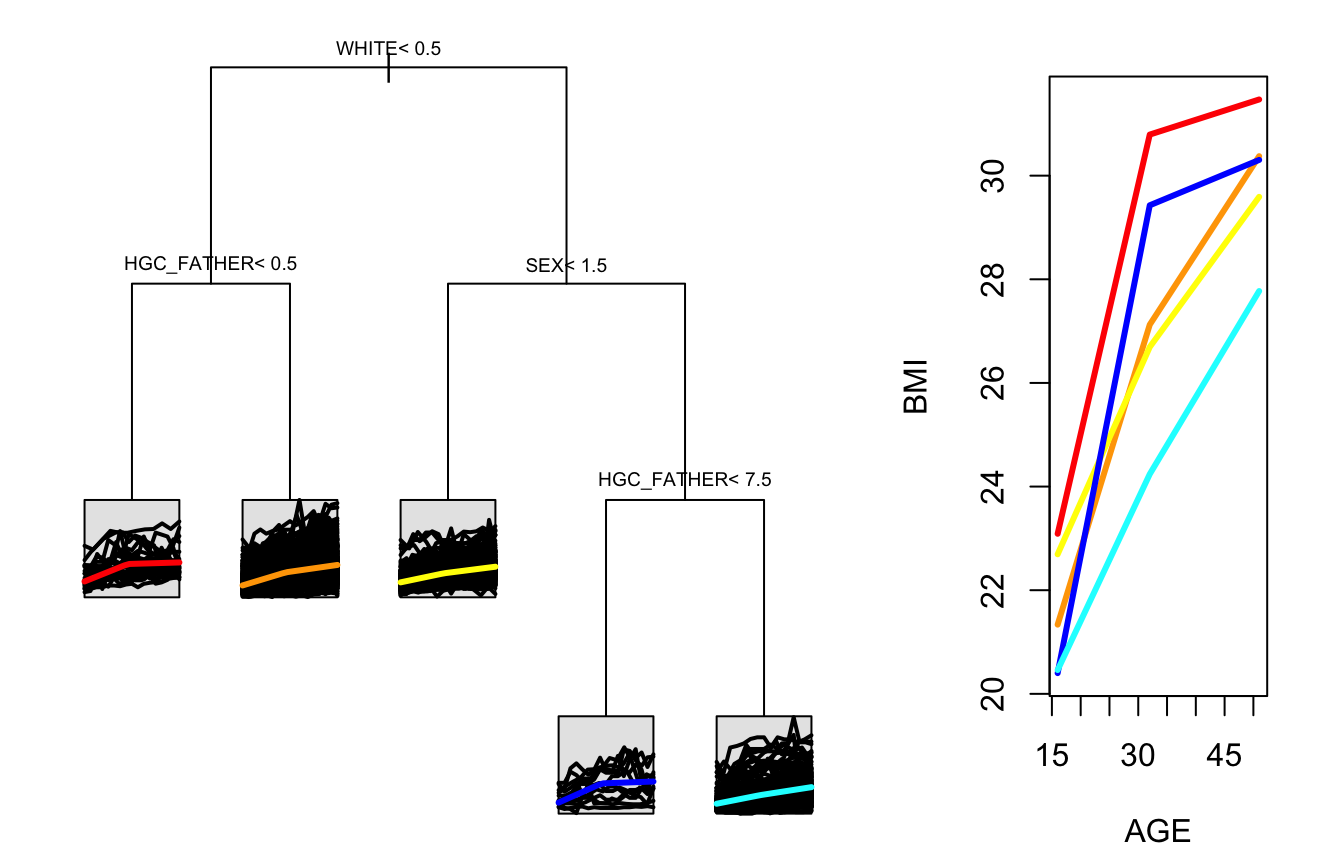
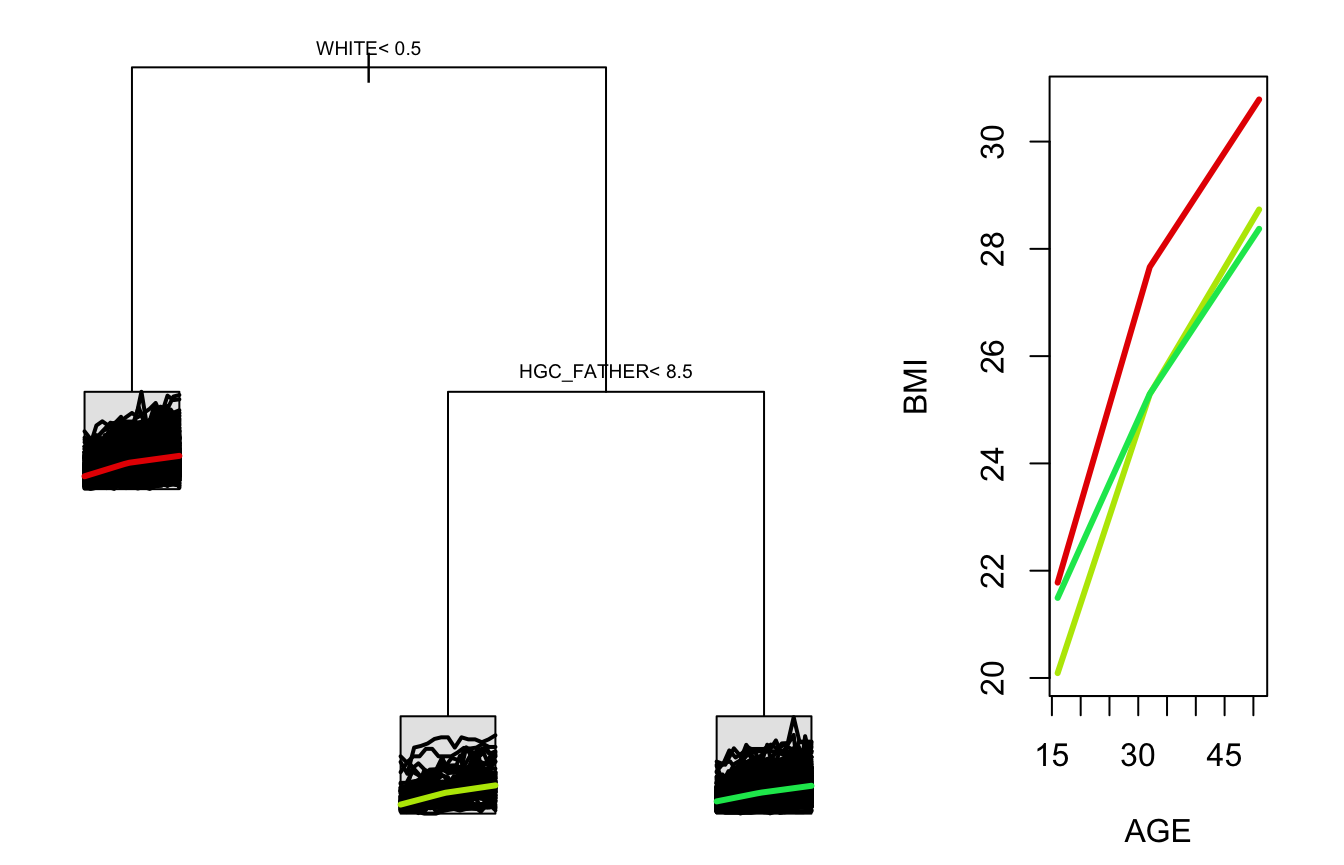
Built Site Files

diff --git a/docs/articles/Long-Intro.html b/docs/articles/Long-Intro.html
@@ -131,6 +131,18 @@
 <p>In this section, we will show how to use <code><a href="../reference/splineTree.html">splineTree()</a></code> to build a tree. More details on customizing, visualizing, and evaluating <code>splinetree</code> objects can be found in the vignette <em>Tree Building with splinetree</em>.</p>
 <p>This example uses data taken from the National Longitudinal Survey of Youth, 1979 (NLSY). The longitudinal trajectory of interest is body mass index (BMI) over time. We randomly sample 1,000 individuals from the NLSY out of those who have non-missing BMI data at at least 10 timepoints spread out over at least 20 years. We are interested in the relationship between BMI trajectories and time-constant variables such as HISP, WHITE, BLACK (indicator variables for subject’s reported race), SEX (indicator for subject’s reported sex), Num_sibs (number of siblings), and HGC_FATHER and HGC_MOTHER (reported highest grade completed by subject’s father and subject’s mother).</p>
 <p>Previous research by <span class="citation">Clarke et al. (2008)</span> suggests that adult BMIs tend to increase steadily throughout early adulthood and flatten out in later adulthood. This type of trajectory can be modeled with a piecewise linear trajectory, so we will define our spline basis with <code>degree = 1</code> and one internal knot. Since we do not have a particular location in mind for the internal knot, we use the <code>df</code> parameter rather than the <code>knots</code> parameter. This will place the knot at the median age. If we include an intercept, we will need to let <code>df = 3</code> to add one internal knot, but if we do not include an intercept <code>df = 2</code> will suffice. In this example, we build one tree with an intercept and one tree without an intercept so as to compare the two. The default value in the <code>rpart</code> package for the <code>cp</code> parameter, which controls the size of the tree, is 0.01. Here, we set the value of <code>cp</code> slightly lower to create trees that are large enough to be interesting but small enough to view in a plot.</p>
+<div class="sourceCode"><pre class="sourceCode r"><code class="sourceCode r"><span class="kw">library</span>(splinetree)
+## Loading required package: rpart
+## Loading required package: nlme
+## Loading required package: splines</code></pre></div>
+<div class="sourceCode"><pre class="sourceCode r"><code class="sourceCode r">split_formula &lt;-<span class="st"> </span><span class="er">~</span>HISP +<span class="st"> </span>WHITE +<span class="st"> </span>BLACK +<span class="st"> </span>SEX +<span class="st"> </span>Num_sibs +<span class="st"> </span>HGC_FATHER +<span class="st"> </span>HGC_MOTHER
+tformula &lt;-<span class="st"> </span>BMI ~<span class="st"> </span>AGE
+sample_tree &lt;-<span class="st"> </span><span class="kw"><a href="../reference/splineTree.html">splineTree</a></span>(split_formula, tformula, <span class="dt">idvar =</span> <span class="st">"ID"</span>, 
+                          <span class="dt">data =</span> nlsySample, <span class="dt">degree =</span> <span class="dv">1</span>, <span class="dt">df =</span> <span class="dv">2</span>, 
+                          <span class="dt">intercept =</span> <span class="ot">FALSE</span>, <span class="dt">cp =</span> <span class="fl">0.005</span>)
+sample_tree_intercept &lt;-<span class="st"> </span><span class="kw"><a href="../reference/splineTree.html">splineTree</a></span>(split_formula, tformula, <span class="dt">idvar =</span> <span class="st">"ID"</span>, 
+                                    <span class="dt">data =</span> nlsySample, <span class="dt">degree =</span> <span class="dv">1</span>, <span class="dt">df =</span> <span class="dv">3</span>, 
+                                    <span class="dt">intercept =</span> <span class="ot">TRUE</span>, <span class="dt">cp =</span> <span class="fl">0.005</span>)</code></pre></div>
 <p>After building these two trees, we can view a printed summary or a plot of each. Beginning with the no-intercept tree, we see that non-white individuals are predicted to have more rapid growth in body mass index than white individuals. Among white individuals, those whose fathers did not complete more than 8.5 years of schooling show more rapid BMI growth. Since this tree was built without an intercept, the average starting BMI is added to each average trajectory in the plot.</p>
 <div class="sourceCode"><pre class="sourceCode r"><code class="sourceCode r"><span class="kw"><a href="../reference/stPrint.html">stPrint</a></span>(sample_tree)
 ## n= 1000,  
@@ -144,7 +156,7 @@
 ##     6) HGC_FATHER&lt; 8.5, 78,  (5.198284, 8.642817)*
 ##     7) HGC_FATHER&gt;=8.5, 417,  (3.802188, 6.880053)*
 <span class="kw"><a href="../reference/stPlot.html">stPlot</a></span>(sample_tree)</code></pre></div>
-<p><img src="Long-Intro_files/figure-html/unnamed-chunk-2-1.png" width="672"></p>
+<p><img src="Long-Intro_files/figure-html/unnamed-chunk-3-1.png" width="672"></p>
 <p>In the tree that is built with an intercept, each node is associated with three coefficients instead of two. While we see two of the same variables that were in the no-intercept tree included here, we now also see sex playing a role. This suggests that sex may impact the level of BMI but not the shape of the trajectory.</p>
 <div class="sourceCode"><pre class="sourceCode r"><code class="sourceCode r"><span class="kw"><a href="../reference/stPrint.html">stPrint</a></span>(sample_tree_intercept)
 ## n= 1000,  
@@ -162,7 +174,7 @@
 ##       14) HGC_FATHER&lt; 7.5, 12,  (20.40041, 9.027571, 9.903029)*
 ##       15) HGC_FATHER&gt;=7.5, 224,  (20.46025, 3.780243, 7.312451)*
 <span class="kw"><a href="../reference/stPlot.html">stPlot</a></span>(sample_tree_intercept, <span class="dt">colors=</span><span class="kw">c</span>(<span class="st">"red"</span>, <span class="st">"orange"</span>, <span class="st">"yellow"</span>, <span class="st">"blue"</span>, <span class="st">"cyan"</span>))</code></pre></div>
-<p><img src="Long-Intro_files/figure-html/unnamed-chunk-3-1.png" width="672"></p>
+<p><img src="Long-Intro_files/figure-html/unnamed-chunk-4-1.png" width="672"></p>
 </div>
 <div id="forests" class="section level1">
 <h1 class="hasAnchor">
@@ -173,7 +185,7 @@
 vars =<span class="st"> </span><span class="kw">attr</span>(<span class="kw">terms</span>(split_formula), <span class="st">"term.labels"</span>)
 imp_large=extra_large_tree$variable.importance
 imp_small=sample_tree_intercept$variable.importance</code></pre></div>
-<p><img src="Long-Intro_files/figure-html/unnamed-chunk-6-1.png" width="672"></p>
+<p><img src="Long-Intro_files/figure-html/unnamed-chunk-7-1.png" width="672"></p>
 <p>In the univariate setting, Random Forests and the associated permutation importance measure are popular ways to obtain more stable measures of variable importance (see <span class="citation">Breiman (2001)</span> or <span class="citation">Liaw and Wiener (2002)</span> for more). Through bootrapping and random variable selection, Random Forests give variables that are not locally optimal in a single tree a chance to appear in a tree. The <code><a href="../reference/splineForest.html">splineForest()</a></code> method allows users to build ensembles of spline trees, combining the projection splitting framework of <code><a href="../reference/splineTree.html">splineTree()</a></code> with the bagging and random variable selection principles of a Random Forest.</p>
 <div id="spline-forest-implementation" class="section level2">
 <h2 class="hasAnchor">
@@ -244,7 +256,7 @@ shape_imps &lt;-<span class="st"> </span><span class="kw"><a href="../reference/
 <span class="kw"><a href="../reference/plotImp.html">plotImp</a></span>(Y_imps[,<span class="dv">3</span>], <span class="dt">main =</span> <span class="st">"Response"</span>)
 <span class="kw"><a href="../reference/plotImp.html">plotImp</a></span>(coeff_imps[,<span class="dv">3</span>], <span class="dt">main =</span><span class="st">"Coeff w/ Intercept"</span>)
 <span class="kw"><a href="../reference/plotImp.html">plotImp</a></span>(shape_imps[,<span class="dv">3</span>], <span class="dt">main =</span> <span class="st">"Coeff w/out Intercept"</span>)</code></pre></div>
-<p><img src="Long-Intro_files/figure-html/unnamed-chunk-15-1.png" width="672"></p>
+<p><img src="Long-Intro_files/figure-html/unnamed-chunk-16-1.png" width="672"></p>
 <p>Using a splineForest, some new variables have relatively high importance. For example, while HGC_MOTHER did not appear in a splineTree, it has a similar overall imporance to HGC_FATHER. These two variables may be unlikely to appear in the same tree due to their correlation (0.667 among complete cases), but the permutation importance metric shows that both variables are associated with the level and the shape of the outcome. The first two panels of the graph are quite similar because they both take into account level and shape; the difference is that the first panel looks at how influential the variables are for approximating BMI values, whereas the second panel looks at how influential the variables are for approximating the smoothed BMI trajectories. The fact that the panels look similar is good because it suggests that the smoothed trajectories used are reasonable approximations of true BMI.</p>
 <p>The third panel of the graph shows more differences. When the intercept of the smoothed trajectories is ignored, the <code>SEX</code> variable loses all importance. This mirrors the observation from our splineTree, where <code>SEX</code> appeared in the intercept tree but not the no intercept tree. Now that we are using a forest, we can more confidently assert that reported sex is associated with the level of BMI but not the shape of the trajectory over time.</p>
 </div>

diff --git a/docs/index.html b/docs/index.html
@@ -10,7 +10,7 @@
 <script src="https://maxcdn.bootstrapcdn.com/bootstrap/3.3.7/js/bootstrap.min.js" integrity="sha384-Tc5IQib027qvyjSMfHjOMaLkfuWVxZxUPnCJA7l2mCWNIpG9mGCD8wGNIcPD7Txa" crossorigin="anonymous"></script><!-- Font Awesome icons --><link href="https://maxcdn.bootstrapcdn.com/font-awesome/4.6.3/css/font-awesome.min.css" rel="stylesheet" integrity="sha384-T8Gy5hrqNKT+hzMclPo118YTQO6cYprQmhrYwIiQ/3axmI1hQomh7Ud2hPOy8SP1" crossorigin="anonymous">
 <!-- clipboard.js --><script src="https://cdnjs.cloudflare.com/ajax/libs/clipboard.js/1.7.1/clipboard.min.js" integrity="sha384-cV+rhyOuRHc9Ub/91rihWcGmMmCXDeksTtCihMupQHSsi8GIIRDG0ThDc3HGQFJ3" crossorigin="anonymous"></script><!-- sticky kit --><script src="https://cdnjs.cloudflare.com/ajax/libs/sticky-kit/1.1.3/sticky-kit.min.js" integrity="sha256-c4Rlo1ZozqTPE2RLuvbusY3+SU1pQaJC0TjuhygMipw=" crossorigin="anonymous"></script><!-- pkgdown --><link href="pkgdown.css" rel="stylesheet">
 <script src="pkgdown.js"></script><meta property="og:title" content="Longitudinal Regression Trees and Forests">
-<meta property="og:description" content="This package builds longitudinal regression trees and longitudinal random forests using a spline projection method. An implementation and extension of work by Yu and Lambert (1999).  ">
+<meta property="og:description" content="This package builds regression trees and random forests for longitudinal or functional data using a spline projection method. The spline projection method was first proposed by Yu and Lambert (1999). This package extends the work of Yu and Lambert to allow trees and forests to be built while considering either level and shape or only shape of response trajectories. ">
 <meta name="twitter:card" content="summary">
 <!-- mathjax --><script src="https://mathjax.rstudio.com/latest/MathJax.js?config=TeX-AMS-MML_HTMLorMML"></script><!--[if lt IE 9]>
 <script src="https://oss.maxcdn.com/html5shiv/3.7.3/html5shiv.min.js"></script>
